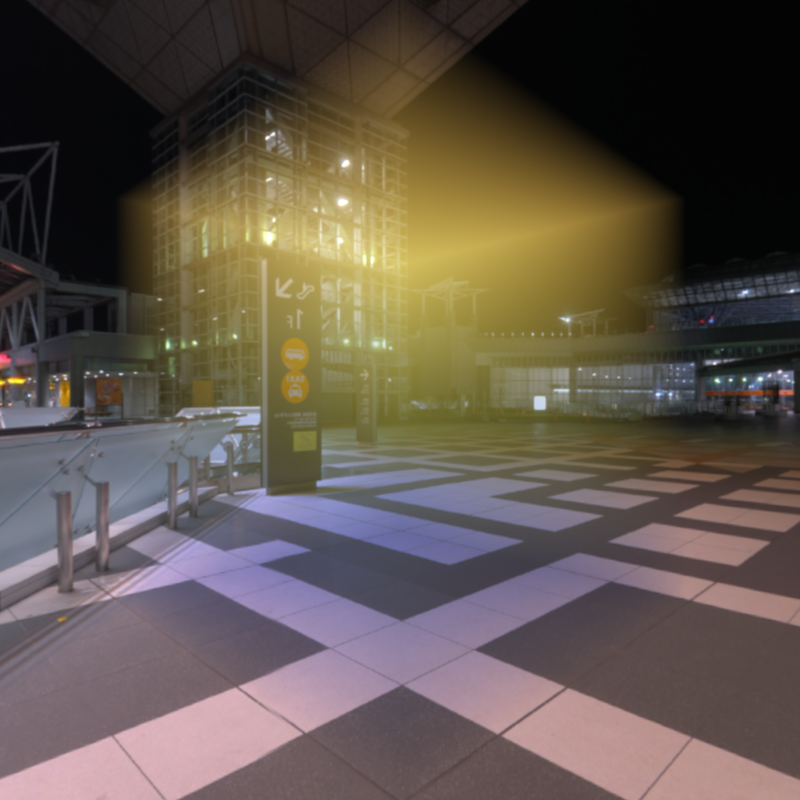
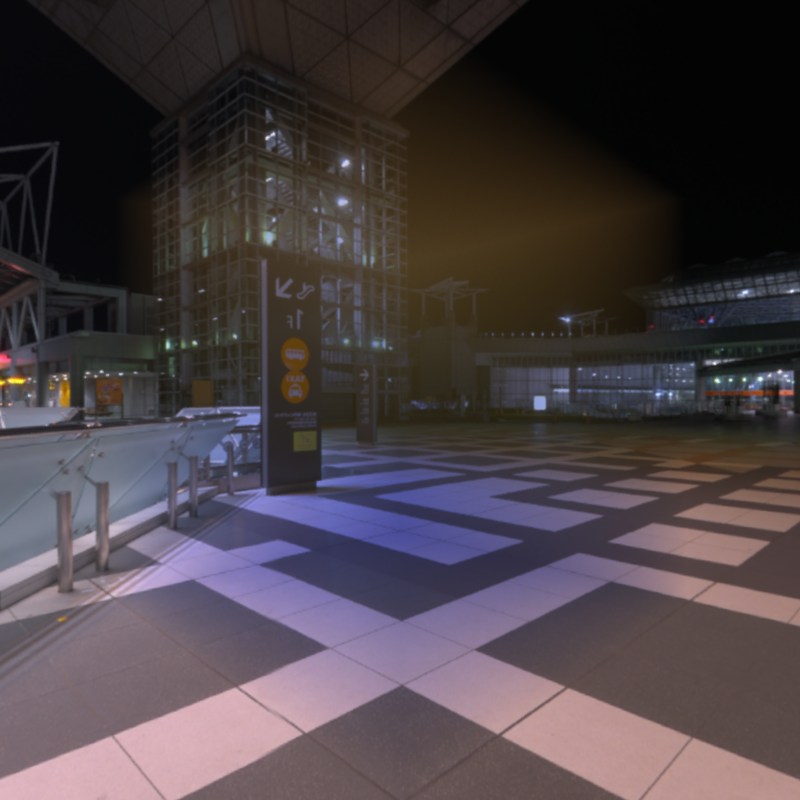
Basic RTE on hetero done

diff --git a/render.py b/render.py
@@ -5,6 +5,7 @@ from taichi.math import vec3, max, min, exp
 from camera import PerspectiveCamera, Ray
 from envmap import Envmap
 from volume import Volume, AABB
+from utils import sample_uniform_sphere
 
 @ti.data_oriented
 class Integrator:
@@ -34,19 +35,28 @@ class Integrator:
                 ray = self.cam.gen_ray(i, j)
                 tmin, tmax, hit = self.intersect_aabb(ray, self.vol.get_aabb())
                 if (hit):
-                    self.sample_points(ray, tmin, tmax, self.points_1, self.N_samples_1)
                     color = vec3(0.0, 0.0, 0.0)
                     transmittance = vec3(1.0, 1.0, 1.0)
                     left = ray.o + tmin * ray.d
-                    right = ray.o + tmin * ray.d
+                    right = left
                     step = 1.0 / (self.N_samples_1 - 1) * (tmax - tmin)
-                    for s1 in range(self.N_samples_1 - 1):
+                    for s1 in range(self.N_samples_1 - 1): # Outer integral
                         right = left + step * ray.d
                         voxel = self.vol.at(right)
                         alpha = 1 - exp(-step*voxel.sigma)
-                        # for s2 in range(self.N_samples_2):
-                        #     pass
-                        color += transmittance * alpha * voxel.albedo
+                        L_s = vec3(0.0, 0.0, 0.0) 
+                        for s2 in range(self.N_samples_2): # Inner integral
+                            transmittance_s = vec3(1.0, 1.0, 1.0)
+                            ray_s = Ray(o=right, d=sample_uniform_sphere())
+                            tmin_s, tmax_s, hit_s = self.intersect_aabb(ray, self.vol.get_aabb())
+                            left_s = ray_s.o + tmin_s * ray_s.d
+                            right_s = left_s
+                            step_s = 1.0 / (self.N_samples_1 - 1) * (tmax_s - tmin_s)
+                            for _s2 in range(self.N_samples_1 - 1):
+                                transmittance_s *= self.vol.Tr(left_s, right_s)
+                            L_s = transmittance_s * self.envmap.eval(ray_s)
+
+                        color += transmittance * alpha * voxel.albedo * L_s
                         transmittance *= self.vol.Tr(left, right)
 
                         left = right
@@ -79,7 +89,3 @@ class Integrator:
 
         return max(0, tmin), tmax, hit # note the case that ray origin inside aabb
 
-    @ti.func
-    def sample_points(self, ray: Ray, tmin: float, tmax: float, points: ti.template(), n_samples: int):
-        for s in range(n_samples):
-            points[s] = ray.o + tmin * ray.d + s/(n_samples-1) * (tmax - tmin) * ray.d

diff --git a/utils.py b/utils.py
@@ -1,5 +1,5 @@
 import taichi as ti
-from taichi.math import vec3
+from taichi.math import vec3, pi, acos, sqrt, sin, cos
 
 @ti.func
 def lerp(x, x0, x1, q0, q1):
@@ -29,4 +29,10 @@ def sample_uniform_sphere():
     u = ti.random()
     v = ti.random()
 
-    return vec3()
+    z = 2 * u - 1
+    phi = 2 * pi * v
+    r = sqrt(1 - z*z)
+    x = r * cos(phi)
+    y = r * sin(phi)
+
+    return vec3(x, y, z)

diff --git a/main.py b/main.py
@@ -32,7 +32,7 @@ v2w = np.array([[2, 0, 0, -1],
 camera = PerspectiveCamera(35, 800, 800, c2w)
 envmap = Envmap('assets/Tokyo_BigSight_3k.hdr', l2w)
 volume = Volume(v2w, 256, random=True)
-integrator = Integrator(camera, envmap, volume, 256, 64, 32)
+integrator = Integrator(camera, envmap, volume, 64, 64, 32)
 
 integrator.render()
 

diff --git a/README.md b/README.md
@@ -23,7 +23,7 @@ We use an hdr image as environment map. The environment is considered placed so 
 
 We consider scattering, absorptive and non-emissive volume. For basics of volume rendering, please refer to [PBR book](https://www.pbr-book.org/3ed-2018/Volume\_Scattering/Volume\_Scattering\_Processes)
 
-For simplicity, the volume is confined in an AABB and the data is stored in voxels. Each voxel stores 2 3D vectors, standing for extinction coefficient and albedo. Trilinear interpolation is applied for points sampled in the volume. Also we consider uniform phase function, as we don't focus on heteroge
+For simplicity, the volume is confined in an AABB and the data is stored in voxels. Each voxel stores 2 3D vectors, standing for extinction coefficient and albedo. Trilinear interpolation is applied for points sampled in the volume. Also we consider uniform phase function, as we don't focus on heterogeneous volume.
 
 ## SGGX Volume
 [Work in Progess]
